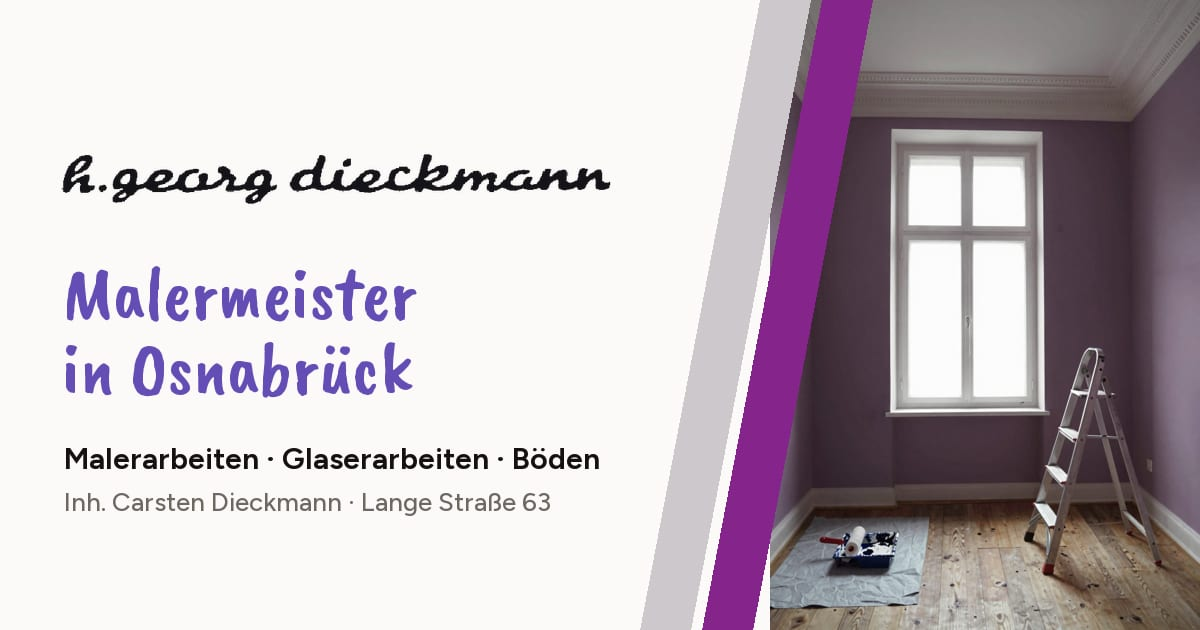
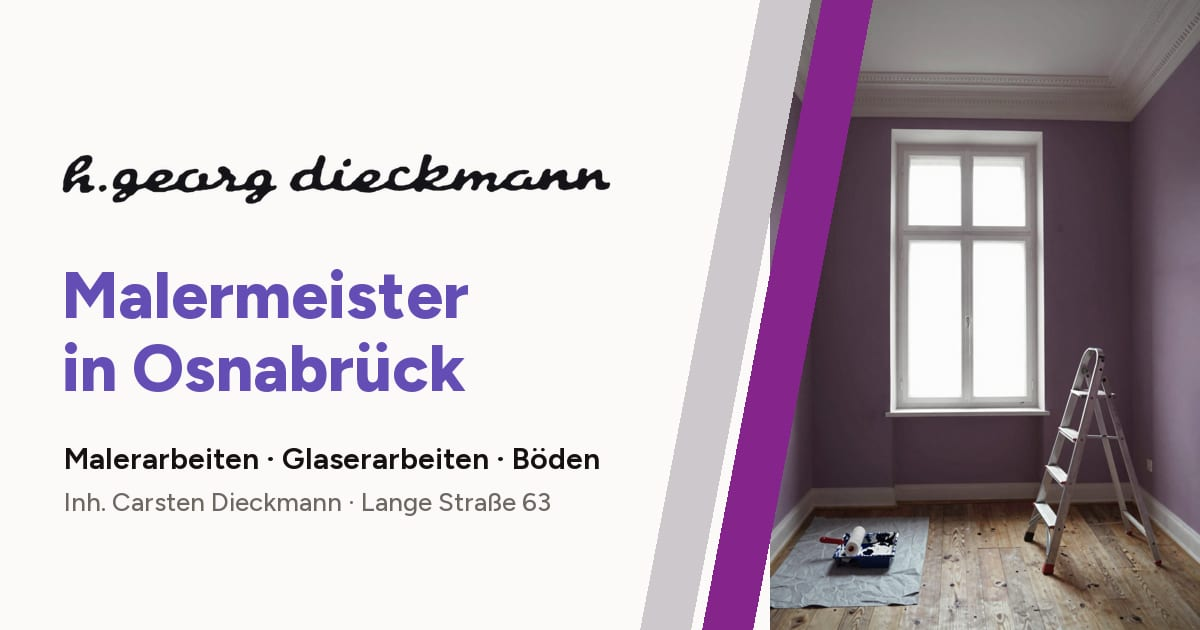
content: H. Georg Dieckmann – Handschrift nur noch an der Telefonnummer, Wortmarke als Betrieb-Überschrift

Changed region(s): [[0.0308, 0.5429, 0.4008, 0.6333], [0.0308, 0.4222, 0.4008, 0.5127]]

diff --git a/_content/seiten/015-dieckmann.md b/_content/seiten/015-dieckmann.md
@@ -26,7 +26,7 @@ header:
   phone: 0541 801 555
   cta: { text: E-Mail schreiben, url: "mailto:carsten.dieckmann@osnanet.de" }
 footer:
-  note: Unverbindliche Konzeptdarstellung eines möglichen neuen Internetauftritts. Wortmarke von maler-dieckmann.de, Schilde nach dem Logo nachgezeichnet. Symbolbilder und Team-Porträts KI-generiert, Teamnamen sind Platzhalter. H. Georg Dieckmann Malermeister · Inh. Carsten Dieckmann · Lange Straße 63 · 49080 Osnabrück · [Rechtsform, USt-IdNr.]
+  note: Unverbindliche Konzeptdarstellung eines möglichen neuen Internetauftritts. Wortmarke von maler-dieckmann.de (geglättet), Schilde nach dem Logo nachgezeichnet. Symbolbilder und Team-Porträts KI-generiert, Teamnamen sind Platzhalter. H. Georg Dieckmann Malermeister · Inh. Carsten Dieckmann · Lange Straße 63 · 49080 Osnabrück · [Rechtsform, USt-IdNr.]
   meta: { icon: shield-check, text: Kein Tracking · keine Cookies }
   colors: { copy: adjacent-right, background: adjacent-right }
 legal:
@@ -42,7 +42,6 @@ quickbar:
 
 ```yaml @
 layout: hero
-headline: hand
 kicker: { text: Innungsbetrieb in Osnabrück, icon: paint-roller }
 visual:
   src: hero.webp
@@ -124,7 +123,7 @@ Fotos in diesem Abschnitt: Symbolbilder (KI-generiert).
 nav: Betrieb
 layout: side
 variant: surface
-headline: hand
+headline: { image: wordmark.webp, ratio: 9.64, width: 30 }
 kicker: Der Betrieb
 ```
 
@@ -154,7 +153,6 @@ size: 20
 nav: Team
 variant: inverted
 colors: { copy: adjacent-right, background: adjacent-right }
-headline: hand
 kicker: { text: Beispiel · Platzhalter, tone: copy }
 ```
 
